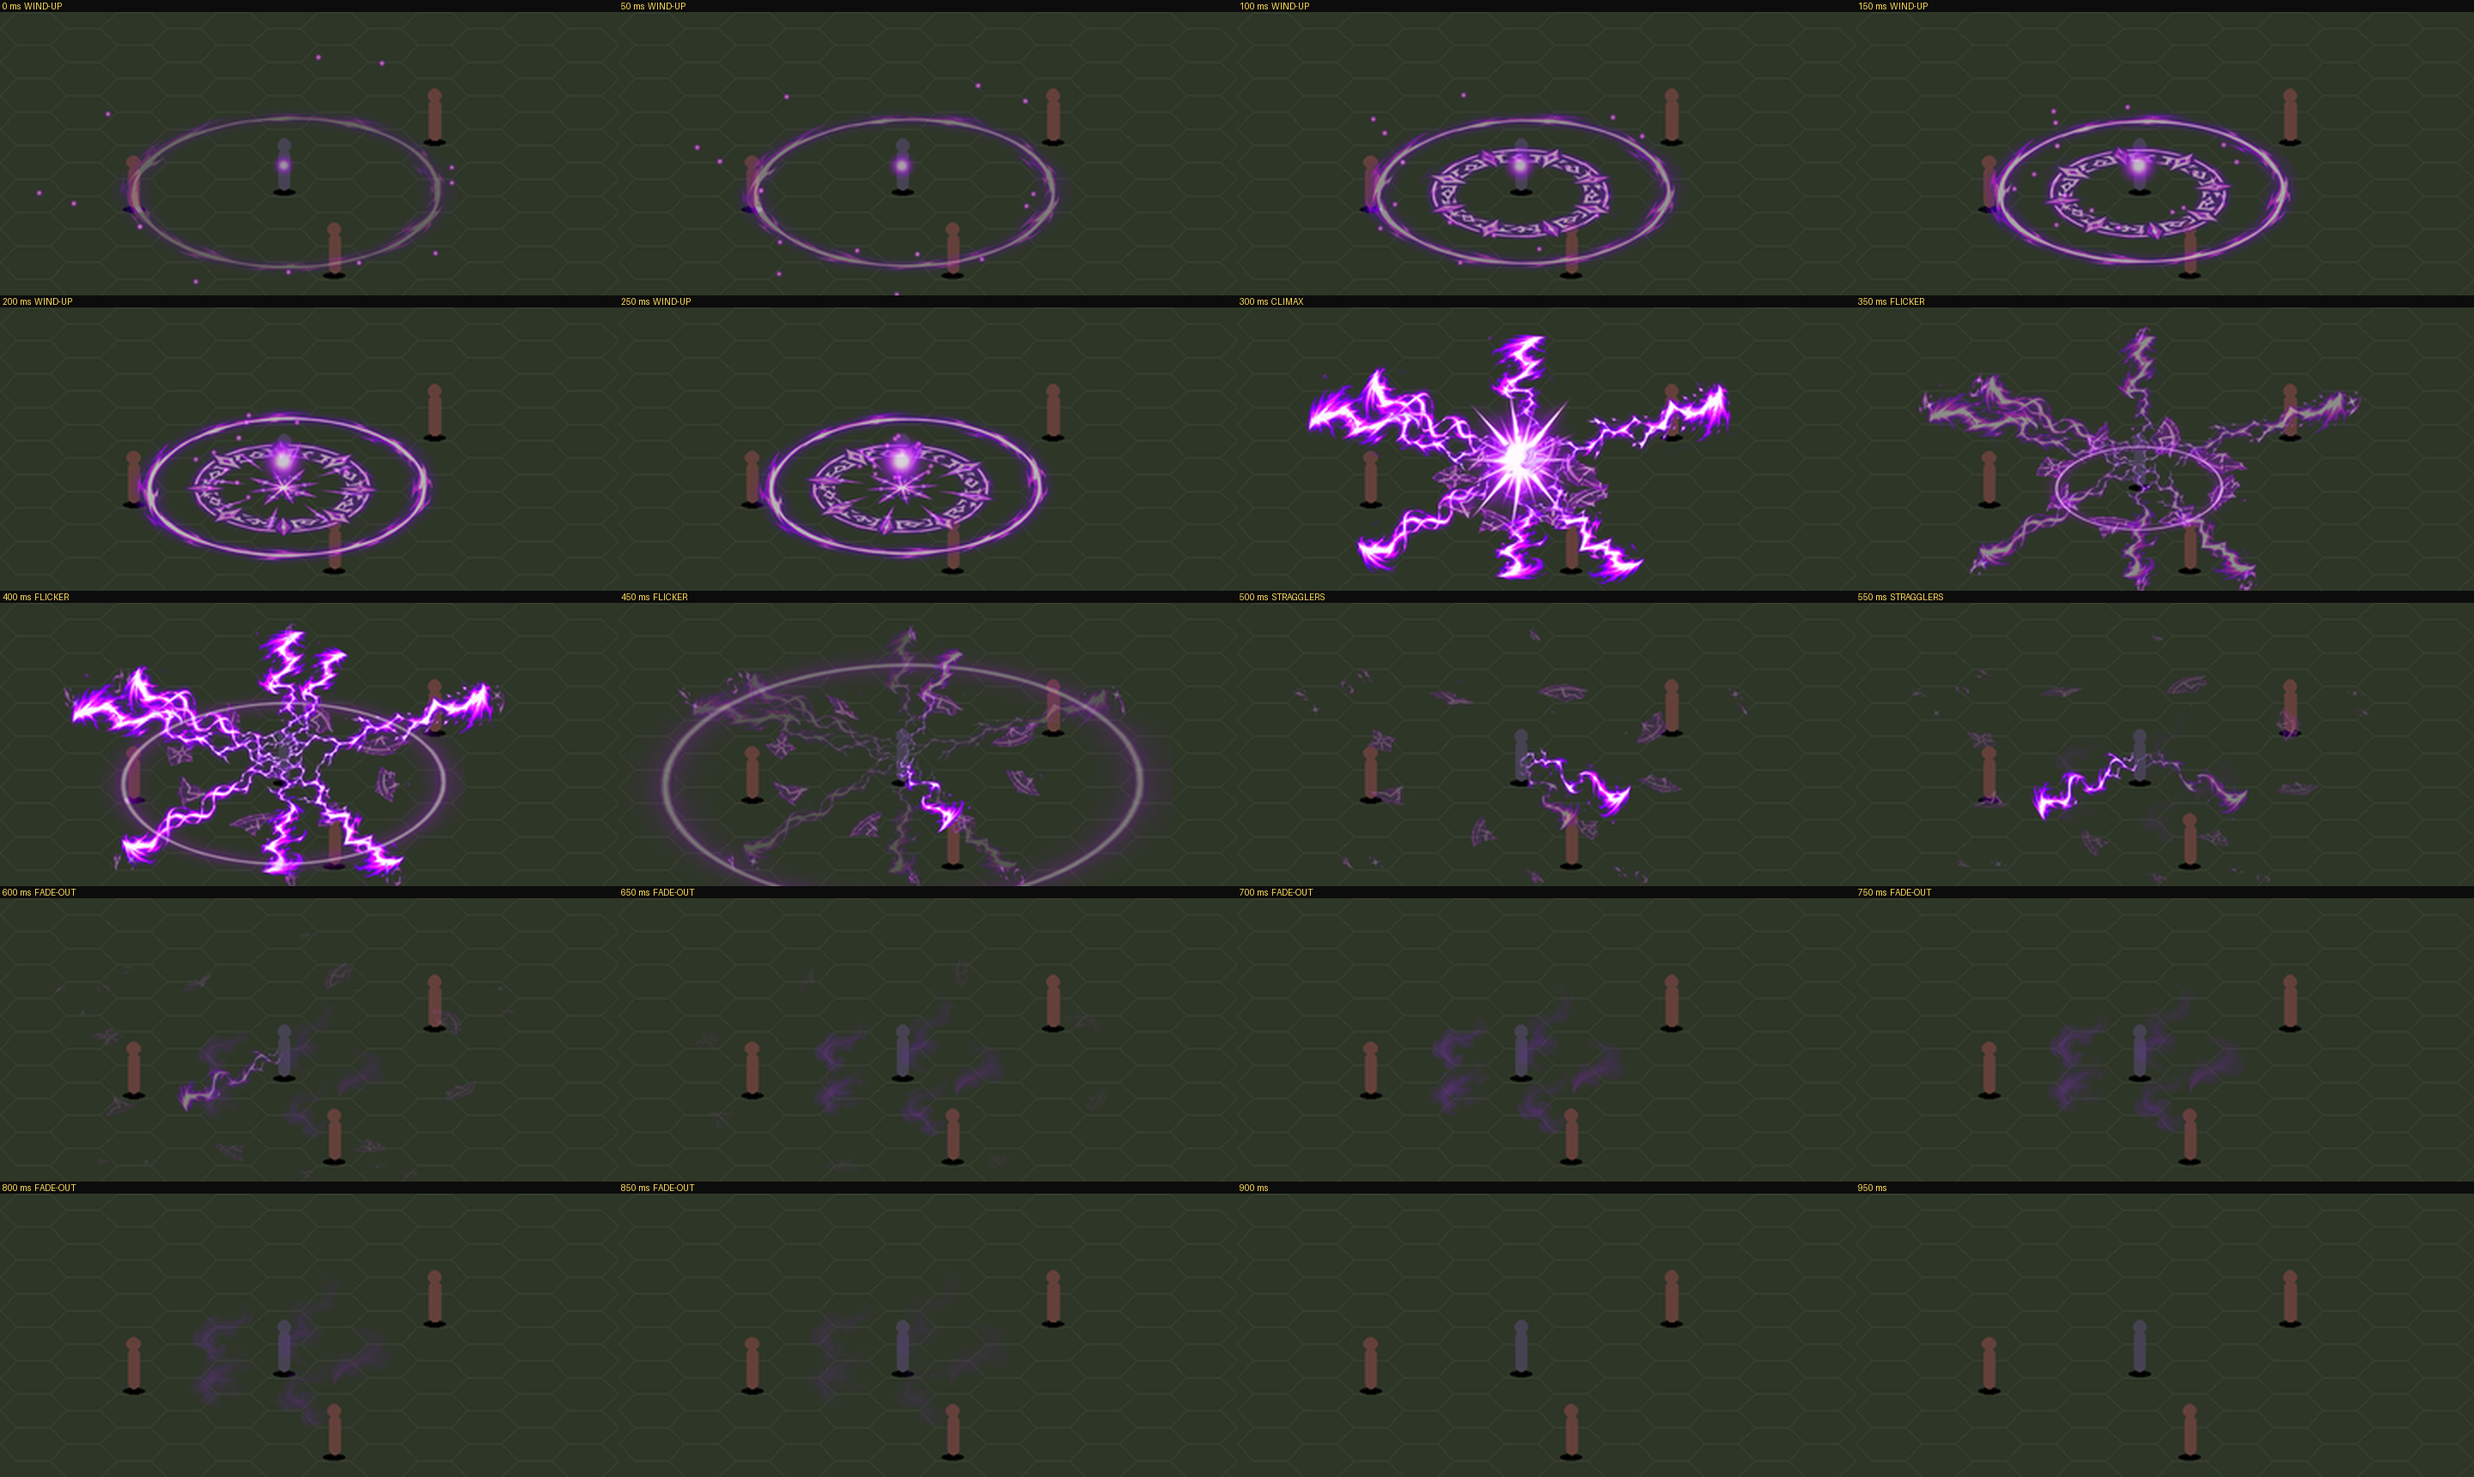
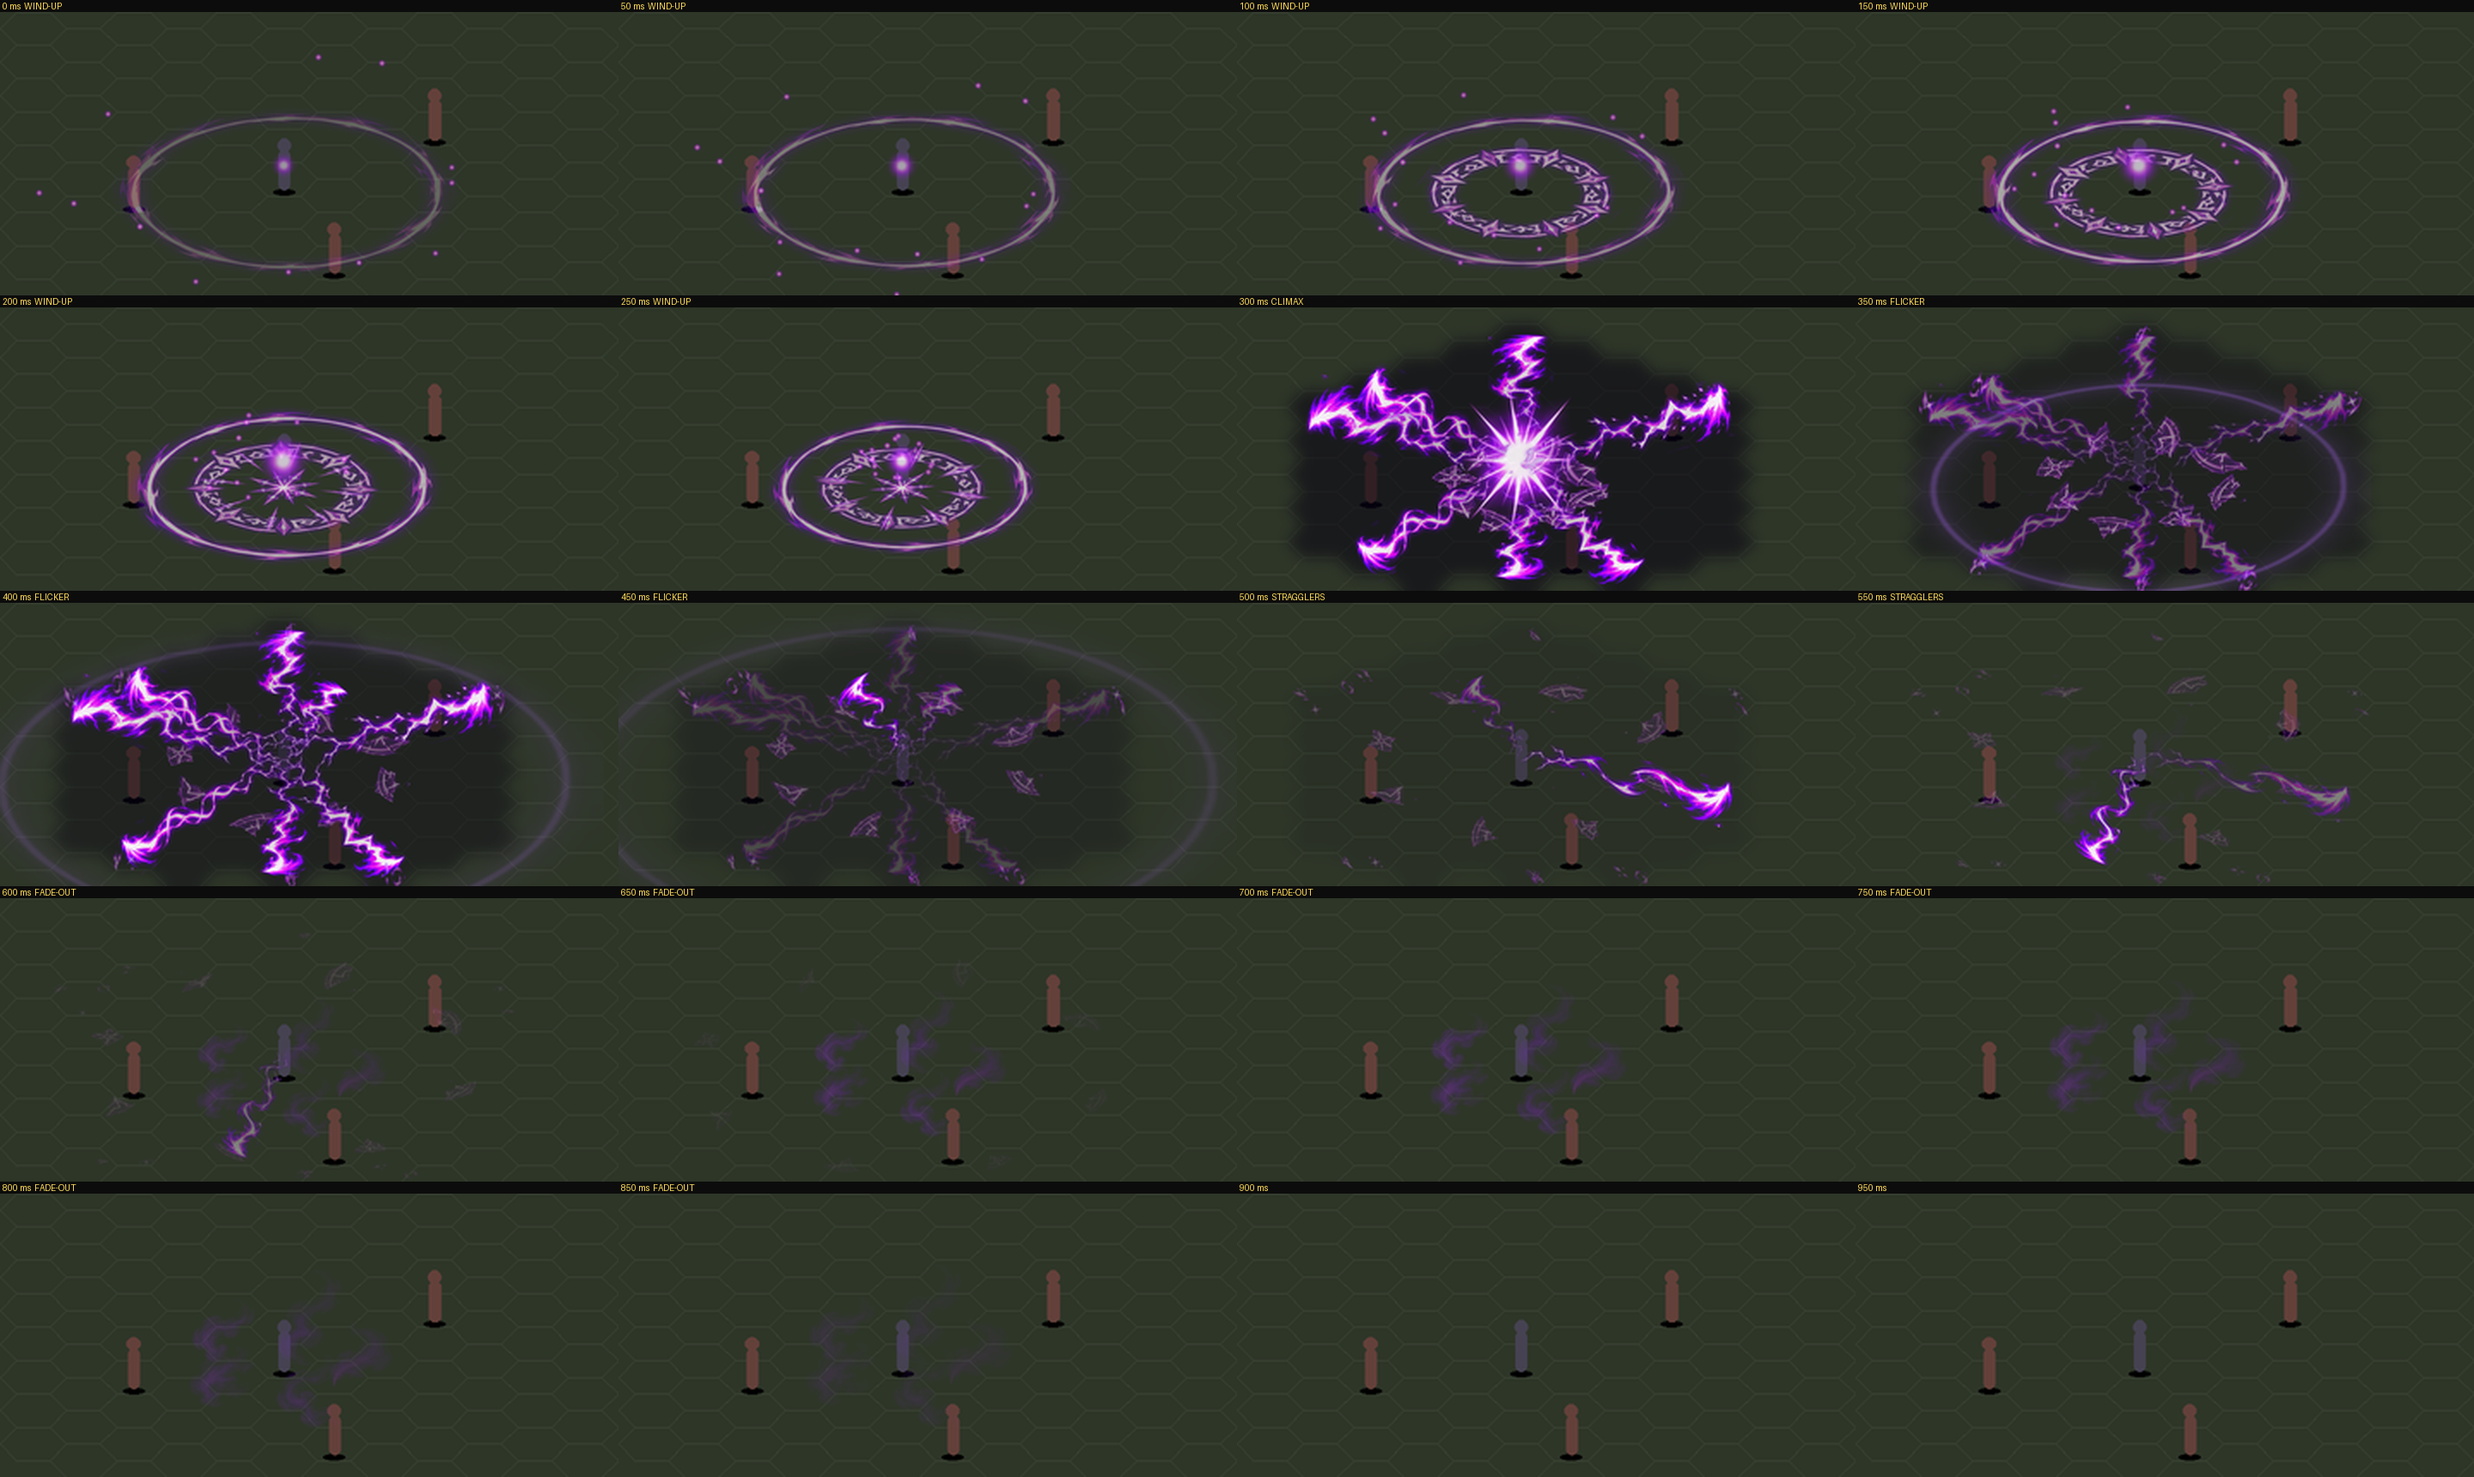
FCF v21 polish: violet eased shockwave, long gap-filling stragglers, anticipation pull, climax dimming, bolt value ramp, desaturated secondaries; LESSONS.md
Claude-Session: https://claude.ai/code/session_01GL8iyk8YMQ4wday8ynG1KQ

diff --git a/art/jutsu_icons/forbidden_chakra_fury/animation/v21/dress_v21.py b/art/jutsu_icons/forbidden_chakra_fury/animation/v21/dress_v21.py
@@ -30,6 +30,39 @@ STEP = 50
 SEC = 0.65
 
 
+def tint(img, rgb):
+    """Recolour a light sprite: keep its alpha and brightness, map it onto one hue (the shockwave read grey-white)."""
+    from PIL import ImageOps
+    g = ImageOps.grayscale(img.convert("RGB"))
+    out = Image.merge("RGB", [g.point(lambda v, c=c: int(c * (0.55 + 0.45 * v / 255))) for c in rgb]).convert("RGBA")
+    out.putalpha(img.getchannel("A"))
+    return out
+
+
+def desat(img, k=0.7):
+    """Lower saturation for secondary elements (the hierarchy: only primaries at full saturation)."""
+    from PIL import ImageEnhance
+    out = ImageEnhance.Color(img.convert("RGB")).enhance(k).convert("RGBA")
+    out.putalpha(img.getchannel("A"))
+    return out
+
+
+RING = tint(V.RINGS[0], (178, 110, 255))
+OUTER, RUNES, STAR = desat(V.OUTER), desat(V.RUNES), desat(V.STAR)
+SPOKES = [desat(x) for x in V.SPOKES]
+SHARDS = [desat(x) for x in V.SHARDS]
+
+
+def ramp_along(img):
+    """Brightness ramps up along the bolt toward the strike end (the leading edge carries the highest value)."""
+    w, h = img.size
+    g = Image.linear_gradient("L").rotate(90, expand=True).resize((w, h))   # 0 at left .. 255 at right
+    lift = g.point(lambda v: 150 + v * 105 // 255)
+    r, gg, b, a = img.split()
+    from PIL import ImageChops as C
+    return Image.merge("RGBA", (C.multiply(r, lift), C.multiply(gg, lift), C.multiply(b, lift), a))
+
+
 def board():
     im = Image.new("RGBA", (W, H), (46, 54, 40, 255))
     d = ImageDraw.Draw(im)
@@ -48,7 +81,7 @@ def board():
 def bolt_sprite(img, a, b, thick, alpha, flip):
     L = math.hypot(b[0] - a[0], b[1] - a[1])
     ang = math.degrees(math.atan2(b[1] - a[1], b[0] - a[0]))
-    body = img.transpose(Image.FLIP_LEFT_RIGHT)          # heavy end at the strike point
+    body = ramp_along(img.transpose(Image.FLIP_LEFT_RIGHT))   # heavy, brightest end at the strike point
     if flip:
         body = body.transpose(Image.FLIP_TOP_BOTTOM)
     body = xform(body, L, -ang, alpha, 1.0, hgt=thick)
@@ -64,17 +97,25 @@ def main(seed=21):
         by_sec[int(((a + math.pi / 8) % (2 * math.pi)) // (math.pi / 4))].append(k)
     far = [sorted(by_sec[s], key=lambda k: -BV.dist(k, M.CASTER))[0] for s in range(8) if by_sec[s]]
     mains = far[:7]
-    strag = far[7:8] + [k for s in (1, 3, 5) for k in by_sec[s] if BV.dist(k, M.CASTER) == 2][:3]
+    main_angles = sorted(math.atan2(M.TILES[k][1] - SRC[1], M.TILES[k][0] - SRC[0]) for k in mains)
+    gaps = sorted(((main_angles[(i + 1) % len(main_angles)] - main_angles[i]) % (2 * math.pi), i)
+                  for i in range(len(main_angles)))[::-1][:4]
+    strag = []
+    for g, i in gaps:                                     # the far tile nearest each gap's middle
+        mid = main_angles[i] + g / 2
+        cands = [k for k in M.AREA if BV.dist(k, M.CASTER) >= 3 and k not in mains and k not in strag]
+        strag.append(min(cands, key=lambda k: abs(((math.atan2(M.TILES[k][1] - SRC[1], M.TILES[k][0] - SRC[0])
+                                                     - mid + math.pi) % (2 * math.pi)) - math.pi)))
 
     def end(k, extra=1.06):
         x, y = M.TILES[k]
         return (SRC[0] + (x - SRC[0]) * extra, SRC[1] + (y - SRC[1]) * extra)
     mb = [(end(k), rnd.choice(V.BOLTS), rnd.random() < 0.5, TH * rnd.uniform(1.4, 1.8)) for k in mains]
-    sb = [(400 + i * 50, end(k), rnd.choice(V.BOLTS), rnd.random() < 0.5, TH * rnd.uniform(1.1, 1.4))
+    sb = [(400 + i * 50, end(k), rnd.choice(V.BOLTS), rnd.random() < 0.5, TH * rnd.uniform(1.2, 1.5))
           for i, k in enumerate(strag)]
     motes = [(rnd.uniform(0, 2 * math.pi), rnd.uniform(0.6, 1.0), rnd.choice(V.DOTS)) for _ in range(14)]
     sparks = [(e, rnd.uniform(0, 2 * math.pi), rnd.choice(V.SPARKS)) for e, _, _, _ in mb for _ in range(2)]
-    shards = [(i * math.pi / 4 + 0.3, V.SHARDS[i]) for i in range(8)]
+    shards = [(i * math.pi / 4 + 0.3, SHARDS[i]) for i in range(8)]
     smoke = [(i * 1.26, rnd.choice(V.SMOKE)) for i in range(5)]
     frames, labels = [], []
     for t in range(0, 1000, STEP):
@@ -84,28 +125,41 @@ def main(seed=21):
             beat = "WIND-UP"
             u = t / 300
             spin = t * 0.15
-            put(fr, xform(V.OUTER, SEAL_R * 2 * (1.15 - 0.15 * u), spin, SEC * min(1, 0.4 + u), SQ), *GROUND)
+            pull = 0.9 if t == 250 else 1.0              # anticipation: the seal and glow suck in before the hit
+            put(fr, xform(OUTER, SEAL_R * 2 * (1.15 - 0.15 * u) * pull, spin, SEC * min(1, 0.4 + u), SQ), *GROUND)
             if t >= 100:
-                put(fr, xform(V.RUNES, SEAL_R * 1.4, -spin * 1.5, SEC, SQ), *GROUND)
+                put(fr, xform(RUNES, SEAL_R * 1.4 * pull, -spin * 1.5, SEC, SQ), *GROUND)
             if t >= 200:
                 for i in range(8):
                     a = i * 45 + spin * 0.4
-                    s = V.SPOKES[i % len(V.SPOKES)]
+                    s = SPOKES[i % len(SPOKES)]
                     x = GROUND[0] + math.cos(math.radians(a)) * SEAL_R * 0.42
                     y = GROUND[1] + math.sin(math.radians(a)) * SEAL_R * 0.42 * SQ
                     put(fr, xform(s, SEAL_R * 0.11, -a - 90, SEC, SQ, hgt=SEAL_R * 0.4), x, y)
-                put(fr, xform(V.STAR, SEAL_R * 0.6, -spin, SEC, SQ), *GROUND)
-            put(fr, xform(V.FLASH[0], TW * (0.4 + 0.6 * u), 0, 0.45 + 0.4 * u), *SRC)
+                put(fr, xform(STAR, SEAL_R * 0.6 * pull, -spin, SEC, SQ), *GROUND)
+            put(fr, xform(V.FLASH[0], TW * (0.4 + 0.6 * u) * (0.6 if t == 250 else 1.0), 0, 0.45 + 0.4 * u), *SRC)
             for a, rr, img in motes:
                 rad = (1 - u) * rr * TW * 4
                 put(fr, xform(img, 12, 0, 0.55), SRC[0] + math.cos(a + 2 * u) * rad,
                     SRC[1] + math.sin(a + 2 * u) * rad * 0.6)
+        dim = {300: 0.55, 350: 0.4, 400: 0.4, 450: 0.25, 500: 0.12}.get(t, 0)
+        if dim:                                           # contrast creates the area of effect
+            m = Image.new("L", (W, H), 0)
+            md = ImageDraw.Draw(m)
+            for kk in M.AREA + [M.CASTER]:
+                x, y = M.TILES[kk]
+                md.polygon([(x - TW / 2, y), (x - TW / 4, y - TH / 2), (x + TW / 4, y - TH / 2), (x + TW / 2, y),
+                            (x + TW / 4, y + TH / 2), (x - TW / 4, y + TH / 2)], fill=255)
+            from PIL import ImageFilter
+            dark = Image.new("RGBA", (W, H), (8, 3, 18, 0))
+            dark.putalpha(m.filter(ImageFilter.GaussianBlur(8)).point(lambda v, d=dim: int(v * d)))
+            fr.alpha_composite(dark)
         if t == 300:                                      # CLIMAX
             beat = "CLIMAX"
             for e, img, flip, th in mb:
                 s, c = bolt_sprite(img, SRC, e, th * 1.15, 1.0, flip)
                 put(fr, s, *c)
-            put(fr, xform(V.FLASH[3], TW * 1.7, 0, 1.0), *SRC)
+            put(fr, xform(V.FLASH[3], TW * 1.7, 0, 0.92), *SRC)
         if 300 <= t < 700:                                # the seal breaks
             u = (t - 300) / 400
             for a, img in shards:
@@ -118,8 +172,8 @@ def main(seed=21):
             for e, img, flip, th in mb:
                 s, c = bolt_sprite(img, SRC, e, th * w, k, flip)
                 put(fr, s, *c)
-            u = (t - 350) / 150
-            put(fr, xform(V.RINGS[0], TW * (3 + 8.4 * u), 0, SEC * (1 - u * 0.7), SQ), *GROUND)
+            u = V.ease_out((t - 300) / 200)
+            put(fr, xform(RING, TW * (2 + 9.4 * u), 0, SEC * (1 - u * 0.8), SQ), *GROUND)
         for t0, e, img, flip, th in sb:                   # STRAGGLERS
             ph = t - t0
             if ph in (0, 50):

diff --git a/art/jutsu_icons/forbidden_chakra_fury/animation/v21/LESSONS.md b/art/jutsu_icons/forbidden_chakra_fury/animation/v21/LESSONS.md
@@ -1,0 +1,35 @@
+# FCF animation: lessons from v1-v21 and the research (2026-11-22)
+
+Process
+1. Design the whole move first (storyboard), then cut it into engine clips. Never start from what one tile can hold.
+2. Block out timing in grey shapes at true game size and the engine's frame rate before any art. Approve timing first.
+3. Then a value/hierarchy pass, then art, then polish. Judge at real size, never only on a 2x preview.
+4. Art: ask the image tool for a sprite KIT (separate pieces on black), never finished scenes; animate the pieces in
+   code as particles. Finished paintings only work as stills; sliding/fading them looks cheap.
+5. No silhouettes or art built around the fighter: the fighter sprite cannot be located or matched (White Tiger).
+
+Timing (anticipation -> climax -> dissipation)
+6. One climax frame carries the hit: everything important lands together (within ~100 ms). Spreading strikes over
+   300 ms reads as a firecracker, not a discharge.
+7. Anticipation: a wind-up, plus a one-frame inward pull right before the hit.
+8. Snappy, eased motion (ease-out), not linear fades. Dissipation short and low contrast.
+9. Real lightning: faint branched leader -> one saturating channel (the impact frame) -> dark gap -> restrikes down
+   the SAME channel, unbranched. Lightning reads as one big streak, not a web.
+
+Hierarchy and value (League of Legends VFX style guide)
+10. Primary: highest value, strong silhouette, full opacity. Secondary: lower value, smaller, softer. Tertiary: few,
+    small, dim. If everything is bright, nothing leads the eye.
+11. The highest values only at the climax flash and the leading edge/strike end of moving things.
+12. Contrast defines the area of effect (dim the area under the climax). Avoid pure 100 % white or 0 % black.
+13. Lower saturation on secondary pieces; one palette across every sprite.
+
+Shape and coverage
+14. Fewer, bigger bolts; cover every on-screen direction (check sectors as the player sees them, not on the squashed
+    board); fire in an order that walks round the circle so every moment has bolts in different directions.
+15. No glowing balls on bolt tips (reads as "sperm"); end on a small crisp glint or nothing.
+16. Centre round sprites on their alpha centroid: decorations make crops lopsided and rings misalign.
+
+Engine realities (TNR)
+17. Normal alpha only (no additive light), no screen shake, effects cannot light fighters, sprite frame rates, strips
+    <= 4096 px tall, tile clips cannot point at the caster. Win on shape and timing.
+18. Sound is part of "premium": use the effect appear/disappear sounds.
